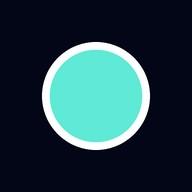
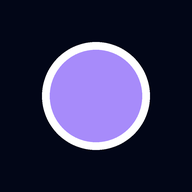
Purple core; enemies shade darker red the tougher they are
Enemy health now varies 0.75-1.35x around the base for their time, and the
red deepens with it. The home-screen icon matches the new core colour.

Changed region(s): [[0.25, 0.25, 0.75, 0.75]]

diff --git a/src/scenes/GameScene.ts b/src/scenes/GameScene.ts
@@ -44,6 +44,14 @@ const T = TEX_SCALE;
 const SHOTGUN_RANGE = 230;
 const SHOTGUN_SPREAD = 0.75;
 const SHOTGUN_SPEED = 620;
+/** Enemies vary in toughness around the current base health, by up to this factor either way. */
+const TOUGHNESS_SPREAD: [number, number] = [0.75, 1.35];
+/** Shading by toughness: the base red at this much health or less, darkest at HP_DARKEST and up. */
+const HP_LIGHTEST = 2.5;
+const HP_DARKEST = 16;
+/** Multiplied over the red texture: white leaves it bright, this turns it a deep blood red. */
+const DARKEST_TINT = 0x7a2a35;
+
 /** Seconds an enemy hit by a pellet is shoved away from you instead of chasing. */
 const KNOCKBACK_SECONDS = 0.22;
 /** Shove speed at point blank and at the edge of the shotgun's reach; pellets landing together add up, to a cap. */
@@ -591,12 +599,16 @@ export class GameScene extends Phaser.Scene {
     if (!e) return;
     e.enableBody(true, x, y, true, true);
     e.setScale(SPRITE_SCALE).setCircle(12 * T, 4 * T, 4 * T).clearTint().setDepth(4).setCollideWorldBounds(false).setAlpha(1);
+    // Darker red means tougher.
+    const hp = (3 + this.elapsed / 25) * Phaser.Math.FloatBetween(...TOUGHNESS_SPREAD);
+    const tint = lerpColor(0xffffff, DARKEST_TINT, Phaser.Math.Clamp((hp - HP_LIGHTEST) / (HP_DARKEST - HP_LIGHTEST), 0, 1));
+    this.restoreTint(e.setData('tint', tint));
     e.setData({
       mood: 'chase',
-      tint: 0xffffff,
+      tint,
       absorb: 0,
       shootCd: Phaser.Math.FloatBetween(...ENEMY_SHOT_GAP),
-      hp: 3 + this.elapsed / 25,
+      hp,
       speed: Math.min(170, Phaser.Math.Between(70, 100) + this.elapsed * 0.3),
       knock: 0,
     });

diff --git a/src/scenes/BootScene.ts b/src/scenes/BootScene.ts
@@ -12,7 +12,8 @@ export class BootScene extends Phaser.Scene {
     // Sizes below are world units; everything is drawn S times larger (see TEX_SCALE).
     const tex = (key: string, size: number) => g.generateTexture(key, size * S, size * S).clear();
 
-    g.fillStyle(0x5eead4).fillCircle(16 * S, 16 * S, 13 * S);
+    // The core: a cool violet, well clear of the enemies' reds.
+    g.fillStyle(0xa78bfa).fillCircle(16 * S, 16 * S, 13 * S);
     g.lineStyle(3 * S, 0xffffff).strokeCircle(16 * S, 16 * S, 13 * S);
     tex('player', 32);
 
